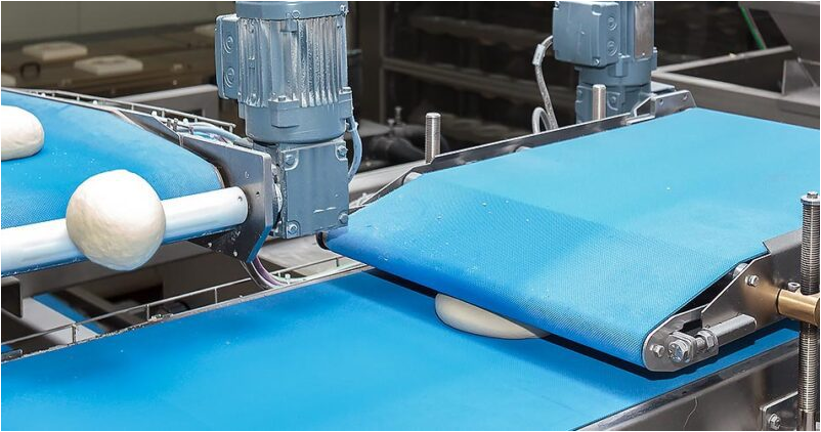
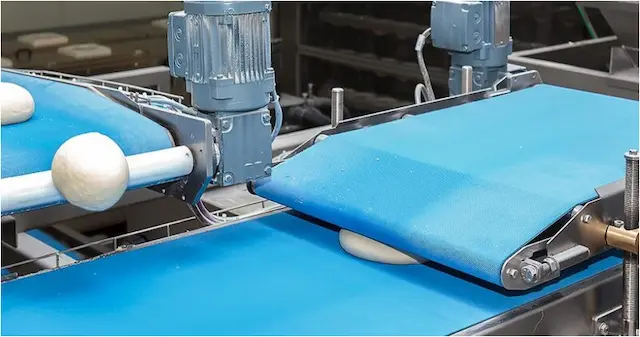
update

diff --git a/src/app/(product)/TPU/page.jsx b/src/app/(product)/TPU/page.jsx
@@ -6,10 +6,13 @@ import Layout from "@/constants/layout/layout";
 import Image from "next/image";
 import React from "react";
 
-import pu1 from "@/assets/images/products/PU/pu1.png";
-import pu2 from "@/assets/images/products/PU/pu2.png";
-import pu3 from "@/assets/images/products/PU/pu3.png";
-import pu4 from "@/assets/images/products/PU/pu4.png";
+import tpu1 from "@/assets/images/products/TPU/tpu1.png";
+import tpu2 from "@/assets/images/products/TPU/tpu2.png";
+import tpu3 from "@/assets/images/products/TPU/tpu3.png";
+import tpu4 from "@/assets/images/products/TPU/tpu4.png";
+import tpu5 from "@/assets/images/products/TPU/tpu5.png";
+import tpu6 from "@/assets/images/products/TPU/tpu6.png";
+import tpu7 from "@/assets/images/products/TPU/tpu7.png";
 
 import { GetData } from "@/components/getDataProduct/getData";
 
@@ -37,7 +40,7 @@ export default function Page({}) {
 
           <div className="flex justify-center mt-5">
             <Image
-              src={pu1}
+              src={tpu1}
               alt="PU 1"
               className="w-full md:w-1/2  rounded-2xl object-contain"
               width={500}
